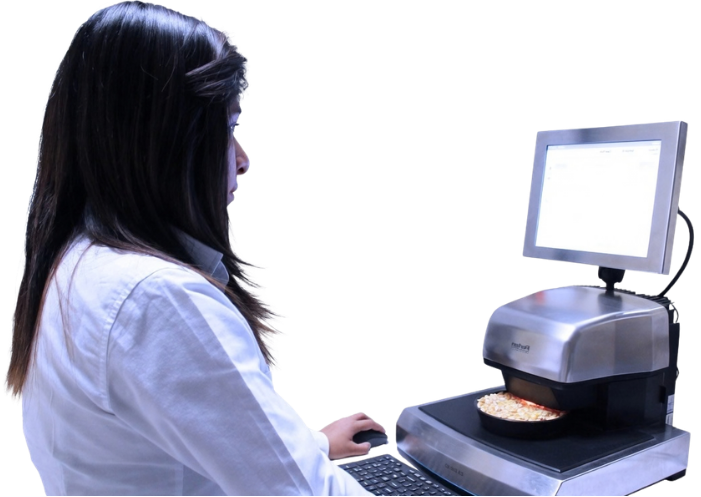
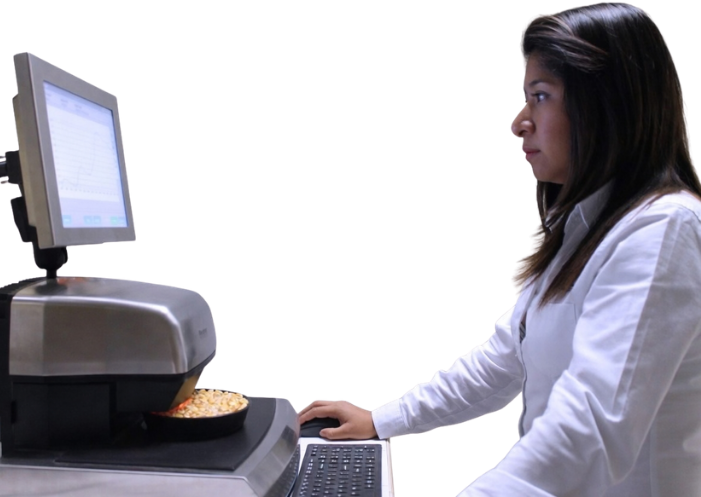
login

diff --git a/src/app/auth/login/login.component.html b/src/app/auth/login/login.component.html
@@ -1,8 +1,9 @@
 <div class="login-container">
   <div class="login-card">
     <div class="text-center mb-4">
-      <h2>Laboratorio Euronutec</h2>
-      <h4>Panel Administrativo</h4>
+      <img src="assets/img/logo/laboratorio-euronutec-dark.png" alt="">
+      
+      <h5 class="mt-3">Panel Administrativo</h5>
     </div>
     
     <form [formGroup]="loginForm" (ngSubmit)="onSubmit()">
@@ -43,7 +44,7 @@
       <div class="d-grid">
         <button 
           type="submit" 
-          class="btn btn-primary" 
+          class="ca-sec-primary-3 ca-sec-primary-3" 
           [disabled]="loading"
         >
           <span *ngIf="loading" class="spinner-border spinner-border-sm me-1"></span>

diff --git a/src/app/auth/login/login.component.scss b/src/app/auth/login/login.component.scss
@@ -3,10 +3,13 @@
   justify-content: center;
   align-items: center;
   min-height: 100vh;
-  background-color: #f8f9fa;
-  padding: 20px;
-}
 
+  background-image: url('/assets/img/fondos/lab.png');
+  background-position: center;
+  background-repeat: no-repeat;
+  background-size: cover;
+  background-attachment: fixed;
+}
 .login-card {
   width: 100%;
   max-width: 400px;
@@ -30,4 +33,8 @@ h4 {
 .btn-primary {
   padding: 10px;
   font-weight: 500;
+}
+
+input {
+     border: 1px solid #E5E6E7 !important;
 }

diff --git a/src/app/admin/services-manager/service-form.component.html b/src/app/admin/services-manager/service-form.component.html
@@ -351,7 +351,7 @@
       <button type="button" class="btn btn-secondary me-2" routerLink="/admin/servicios">Cancelar</button>
       <button 
         type="submit" 
-        class="btn btn-primary" 
+        class="ca-sec-primary-3" 
         [disabled]="serviceForm.invalid || submitting"
       >
         <span *ngIf="submitting" class="spinner-border spinner-border-sm me-2" role="status" aria-hidden="true"></span>

diff --git a/src/app/admin/news-manager/news-form.component.html b/src/app/admin/news-manager/news-form.component.html
@@ -222,7 +222,7 @@
       <button type="button" class="btn btn-secondary me-2" routerLink="/admin/noticias">Cancelar</button>
       <button 
         type="submit" 
-        class="btn btn-primary" 
+        class="ca-sec-primary-3" 
         [disabled]="newsForm.invalid || submitting"
       >
         <span *ngIf="submitting" class="spinner-border spinner-border-sm me-2" role="status" aria-hidden="true"></span>

diff --git a/src/app/admin/users-manager/user-form.component.html b/src/app/admin/users-manager/user-form.component.html
@@ -103,7 +103,7 @@
       <button type="button" class="btn btn-secondary me-2" routerLink="/admin/usuarios">Cancelar</button>
       <button 
         type="submit" 
-        class="btn btn-primary" 
+        class="ca-sec-primary-3" 
         [disabled]="userForm.invalid || submitting"
       >
         <span *ngIf="submitting" class="spinner-border spinner-border-sm me-2" role="status" aria-hidden="true"></span>

diff --git a/src/app/admin/services-manager/services-list.component.html b/src/app/admin/services-manager/services-list.component.html
@@ -1,7 +1,7 @@
 <div class="services-list-container">
   <div class="header-actions">
     <h2 class="section-title">Gestión de Servicios</h2>
-    <a routerLink="nuevo" class="btn btn-primary">
+    <a routerLink="nuevo" class="ca-sec-primary-3">
       <i class="bi bi-plus-circle me-2"></i>
       Nuevo Servicio
     </a>

diff --git a/src/app/admin/users-manager/users-list.component.html b/src/app/admin/users-manager/users-list.component.html
@@ -1,7 +1,7 @@
 <div class="users-list-container">
   <div class="header-actions">
     <h2 class="section-title">Gestión de Usuarios</h2>
-    <a routerLink="nuevo" class="btn btn-primary">
+    <a routerLink="nuevo" class="ca-sec-primary-3">
       <i class="bi bi-plus-circle me-2"></i>
       Nuevo Usuario
     </a>

diff --git a/src/app/admin/news-manager/news-list.component.html b/src/app/admin/news-manager/news-list.component.html
@@ -1,7 +1,7 @@
 <div class="news-list-container">
   <div class="header-actions">
     <h2 class="section-title">Gestión de Noticias</h2>
-    <a routerLink="nueva" class="btn btn-primary">
+    <a routerLink="nueva" class="ca-sec-primary-3">
       <i class="bi bi-plus-circle me-2"></i>
       Nueva Noticia
     </a>

diff --git a/src/environments/environment.ts b/src/environments/environment.ts
@@ -1,4 +1,4 @@
 export const environment = {
   production: false,
-  apiUrl: 'http://localhost:8000/api/v1'
+  apiUrl: 'http://192.168.1.198:8000/api/v1'
 };
